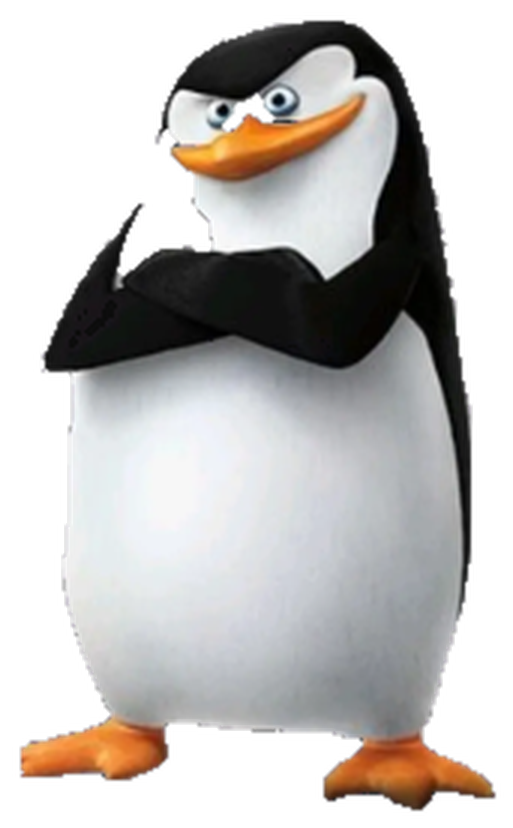
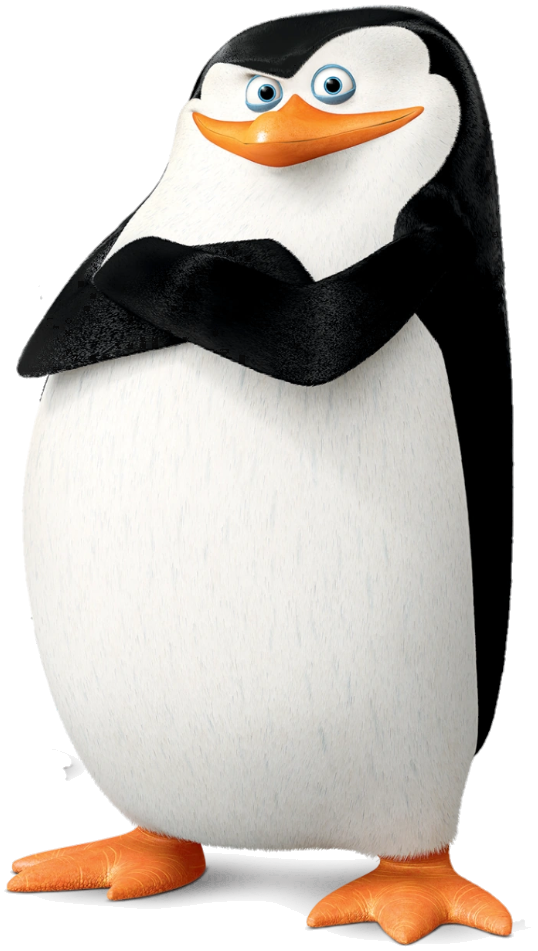
fix(assets): restore full penguin anatomical structure, wing, and defringe edge bleed

diff --git a/frontend/src/components/landing/standing-penguin.tsx b/frontend/src/components/landing/standing-penguin.tsx
@@ -94,8 +94,8 @@ export function StandingPenguin() {
         <Image
           src="/images/skipper-penguin.png"
           alt="Skipper Penguin"
-          width={572}
-          height={959}
+          width={538}
+          height={951}
           priority
           draggable={false}
           className="h-[140px] w-auto sm:h-[185px] lg:h-[235px] object-contain transition-transform duration-200 group-hover:-rotate-2"
